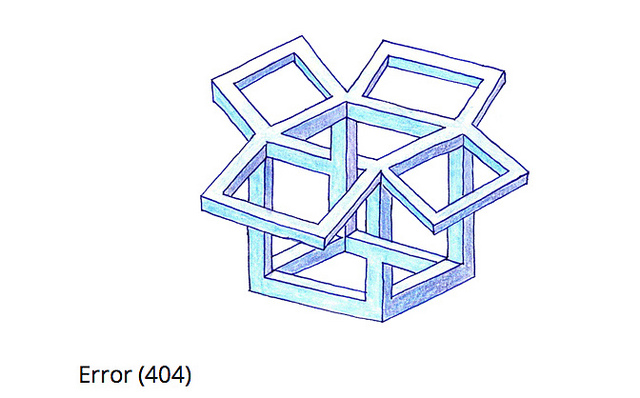
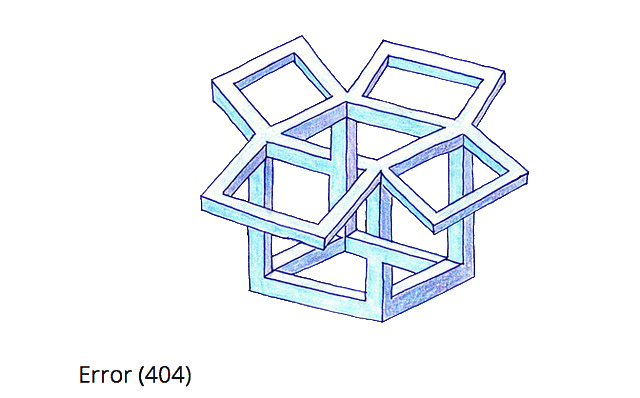
replace 404 background with transparency

Changed region(s): [[0.1562, 0.9347, 0.2812, 0.9648]]

diff --git a/404.md b/404.md
@@ -2,7 +2,7 @@
 layout: featuredimage
 permalink: /404.html
 title: Error 404
-featuredimage: "error-404.jpg"
+featuredimage: "error-404.png"
 featuredalt: "impossible box"
 featuredtitle: "something went wrong in building this..."
 featuredwidth: 100%
